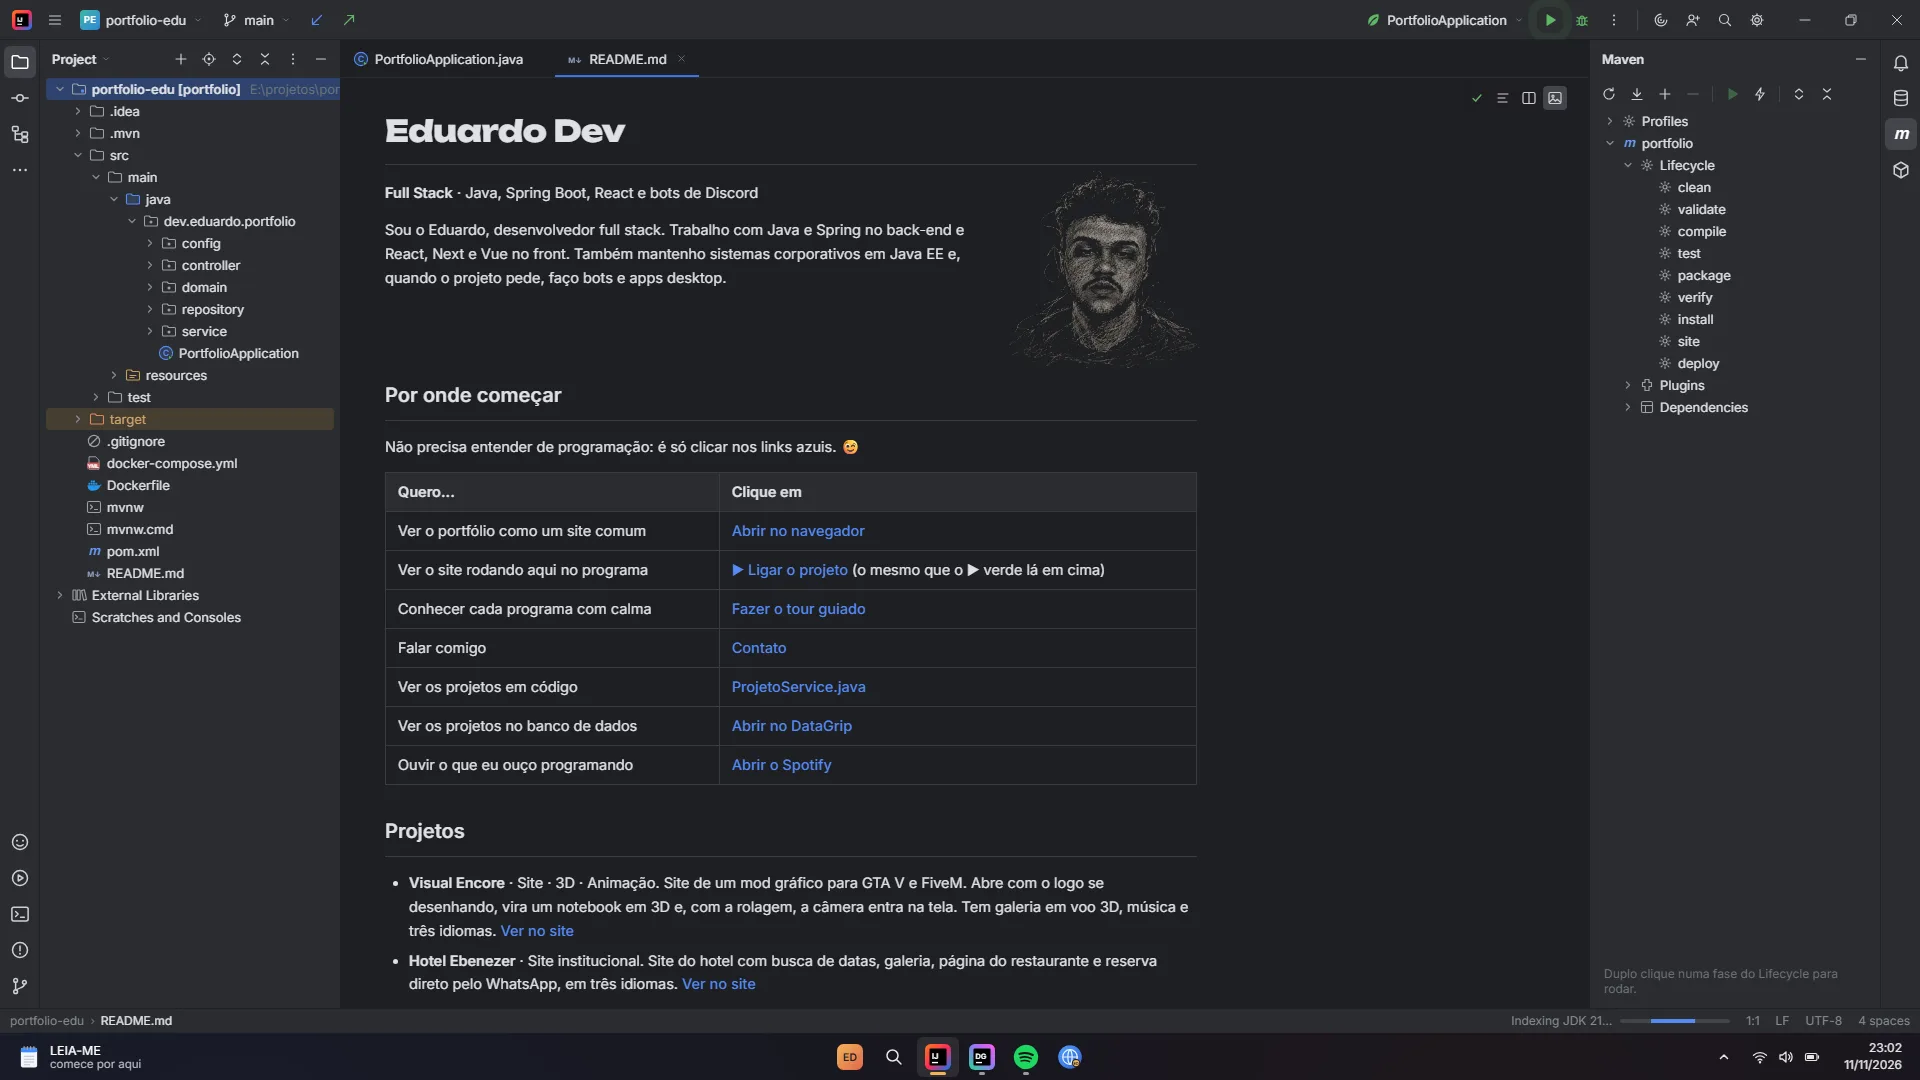
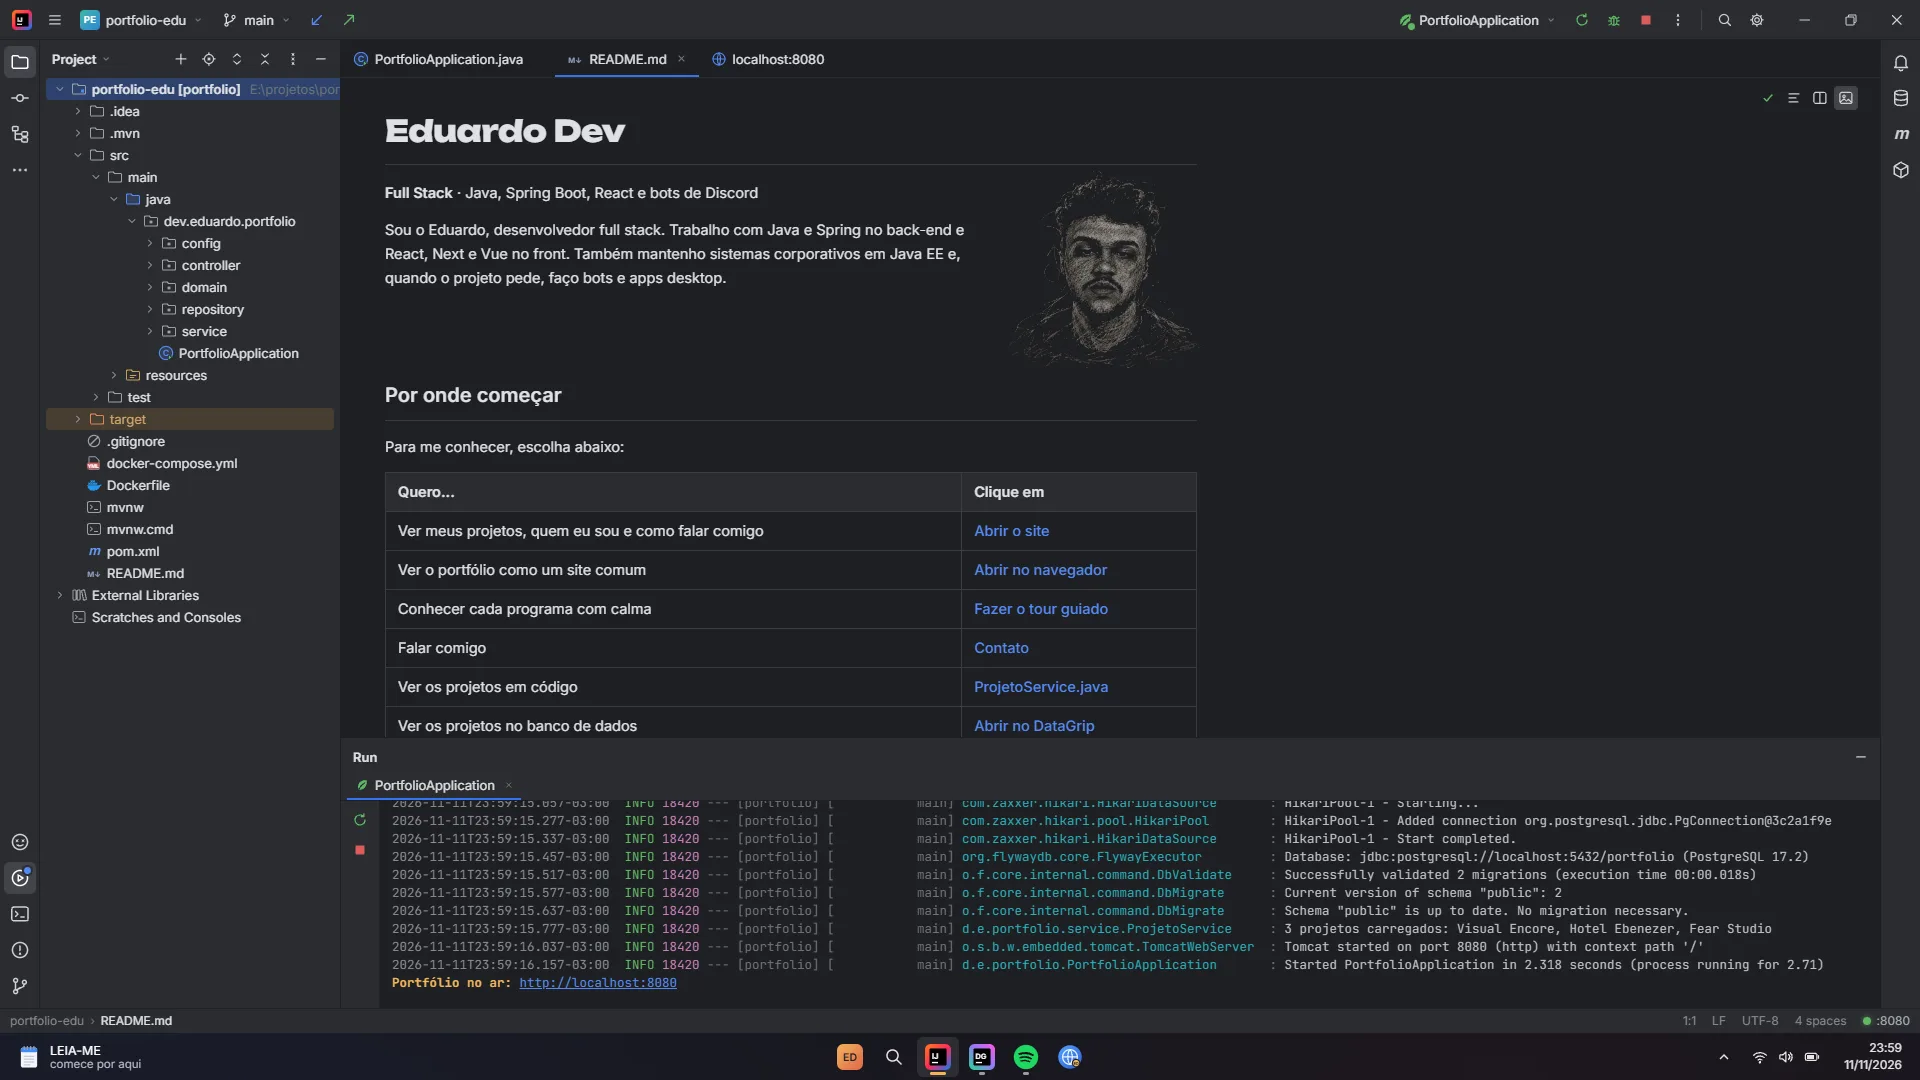
intellij abre com o projeto rodando e o readme na frente

diff --git a/src/apps/intellij/IntelliJ.tsx b/src/apps/intellij/IntelliJ.tsx
@@ -1,6 +1,6 @@
 import { useCallback, useEffect, useMemo, useRef, useState } from "react";
 import { useSistema, type AppId, type ControleJanela } from "../../sistema/contexto";
-import { definirSinal, emitir, lerSinal, ouvir, ouvirSinal } from "../../sistema/eventos";
+import { definirSinal, emitir, lerSinal, ouvir } from "../../sistema/eventos";
 import { IconeIntelliJ } from "../../sistema/icones";
 import { projetos } from "../../dados/projetos";
 import { perfil } from "../../dados/perfil";
@@ -13,6 +13,7 @@ import { Terminal } from "./Terminal";
 import { BuscaTudo, type AbaBusca, type Acao } from "./BuscaTudo";
 import { MenuSuspenso, type ItemMenu } from "./Menus";
 import { fimProcesso, logApp, logMaven, type Sessao } from "./execucao";
+import { classeTema, mudarTemaIde, temasIde, useTemaIde } from "./tema";
 import {
   JanelaBanco,
   JanelaCommit,
@@ -32,7 +33,6 @@ import {
   IcBanco,
   IcBusca,
   IcChevron,
-  IcColab,
   IcCommit,
   IcDepurar,
   IcEndpoints,
@@ -45,7 +45,6 @@ import {
   IcFechar,
   IcFecharJanela,
   IcGit,
-  IcIA,
   IcLocalizar,
   IcMais,
   IcMaisFerramentas,
@@ -89,6 +88,7 @@ const hora = () => new Date().toLocaleTimeString("pt-BR", { hour: "2-digit", min
 export function IntelliJ({ janela }: { janela: ControleJanela }) {
   const sistema = useSistema();
   const celular = sistema.celular;
+  const tema = useTemaIde();
 
   // ---------------- Abas do editor ----------------
   const [abas, setAbas] = useState<string[]>([ID.app, ID.readme]);
@@ -103,7 +103,8 @@ export function IntelliJ({ janela }: { janela: ControleJanela }) {
 
   // ---------------- Janelas de ferramenta ----------------
   const [esquerda, setEsquerda] = useState<Esquerda | null>(celular ? null : "projeto");
-  const [direita, setDireita] = useState<Direita | null>(!celular && innerWidth >= 1500 ? "maven" : null);
+  // Maven começa fechado: o site rodando ganha a largura toda (o "m" na direita abre)
+  const [direita, setDireita] = useState<Direita | null>(null);
   const [inferior, setInferior] = useState<Inferior | null>(null);
   const [tam, setTam] = useState({ esq: 300, dir: 290, inf: 270 });
 
@@ -174,7 +175,15 @@ export function IntelliJ({ janela }: { janela: ControleJanela }) {
     setInferior("run");
   }, []);
 
-  const rodar = useCallback((debug = false) => novaSessao(debug ? "debug" : "app", "PortfolioApplication", logApp(debug)), [novaSessao]);
+  // Rodar "na mão" (▶, menu, atalho, terminal…) traz o site para a frente quando ele subir
+  const querSite = useRef(false);
+  const rodar = useCallback(
+    (debug = false) => {
+      querSite.current = true;
+      novaSessao(debug ? "debug" : "app", "PortfolioApplication", logApp(debug));
+    },
+    [novaSessao]
+  );
   const maven = useCallback((objetivo: string) => novaSessao("maven", `portfolio [${objetivo}]`, logMaven(objetivo)), [novaSessao]);
   const parar = useCallback((id?: number) => {
     setSessoes((l) =>
@@ -207,20 +216,24 @@ export function IntelliJ({ janela }: { janela: ControleJanela }) {
     return () => window.clearTimeout(t);
   }, [sessoes]);
 
-  // O app subiu: abre o site no preview
+  // O app subiu. Se foi pedido (▶, "Abrir o site"…), o site vem para a frente; se subiu
+  // sozinho ao abrir, a aba localhost:8080 fica pronta e o README continua na frente.
   const estavaRodando = useRef(false);
   const [jaRodou, setJaRodou] = useState(false);
   useEffect(() => {
     definirSinal("app-rodando", appRodando);
     if (appRodando && !estavaRodando.current) {
       setJaRodou(true);
-      abrirSite(ancoraPendente.current ?? undefined);
-      if (celular) setInferior(null); // no celular o Run cobriria o site
+      if (querSite.current) {
+        abrirSite(ancoraPendente.current ?? undefined);
+        if (!lerSinal("guia-aberto"))
+          notificar("Projeto ligado! 🎉", "O site abriu aqui no meio. Role para ver projetos, tecnologias e contato.", [
+            { rotulo: "Abrir o site", acao: () => abrirSite() },
+          ]);
+      } else setAbas((l) => (l.includes(SITE) ? l : [...l, SITE]));
+      if (celular) setInferior(null); // no celular o Run cobriria a tela
       ancoraPendente.current = null;
-      if (!lerSinal("guia-aberto"))
-        notificar("Projeto ligado! 🎉", "O site abriu aqui no meio. Role para ver projetos, tecnologias e contato.", [
-          { rotulo: "Abrir o site", acao: () => abrirSite() },
-        ]);
+      querSite.current = false;
     }
     estavaRodando.current = appRodando;
   }, [appRodando, abrirSite, notificar, celular]);
@@ -256,39 +269,22 @@ export function IntelliJ({ janela }: { janela: ControleJanela }) {
   useEffect(() => ouvir("intellij:rodar", () => rodar()), [rodar]);
   useEffect(() => ouvir("intellij:site", (ancora) => verSite(ancora || undefined)), [verSite]);
 
-  // Endereço com #abrir=caminho/do/Arquivo.java: abre o arquivo
+  // Ao abrir, o projeto já sobe sozinho, sem tirar o README da frente: ele é a página
+  // inicial ("para me conhecer, escolha abaixo") e o site fica pronto na aba localhost:8080.
+  // O ▶ continua lá para religar. Com #abrir=Arquivo.java, abre esse arquivo.
+  const ligou = useRef(false);
   useEffect(() => {
+    if (ligou.current) return;
+    ligou.current = true;
     const m = /^#abrir=(.+)$/.exec(decodeURIComponent(location.hash));
     if (m) abrirArquivo(m[1]);
+    novaSessao("app", "PortfolioApplication", logApp(false));
   }, []);
 
-  // Ao abrir: "indexando" e, quando a pessoa já estiver no computador (e sem o guia
-  // na frente), um balão explicando o ▶
-  const avisouRodar = useRef(false);
+  // "Indexando" nos primeiros segundos, como o de verdade
   useEffect(() => {
-    const t1 = window.setTimeout(() => setIndexando(false), 2600);
-    let t2: number | undefined;
-    const tentar = () => {
-      window.clearTimeout(t2);
-      if (avisouRodar.current || !lerSinal("desktop-ativo") || lerSinal("guia-aberto") || lerSinal("app-rodando")) return;
-      t2 = window.setTimeout(() => {
-        if (avisouRodar.current || lerSinal("guia-aberto") || lerSinal("app-rodando")) return;
-        avisouRodar.current = true;
-        notificar("Quer ver o site?", "Clique no ▶ verde aqui em cima: o projeto liga e o site abre aqui dentro.", [
-          { rotulo: "▶ Ligar o projeto", acao: () => rodar() },
-          { rotulo: "Ler o LEIA-ME", acao: () => emitir("sistema:guia") },
-        ]);
-      }, 1400);
-    };
-    tentar();
-    const a = ouvirSinal("desktop-ativo", tentar);
-    const b = ouvirSinal("guia-aberto", tentar);
-    return () => {
-      a();
-      b();
-      window.clearTimeout(t1);
-      window.clearTimeout(t2);
-    };
+    const t = window.setTimeout(() => setIndexando(false), 2600);
+    return () => window.clearTimeout(t);
   }, []);
 
   // O terminal fica vivo depois de aberto, para não perder o histórico
@@ -519,7 +515,7 @@ export function IntelliJ({ janela }: { janela: ControleJanela }) {
       { rotulo: "Settings…", atalho: "Ctrl+Alt+S", desabilitado: true },
       { rotulo: "Plugins…", desabilitado: true },
       { separador: true },
-      { rotulo: "Theme", sub: [{ rotulo: "Dark", marcado: true }, { rotulo: "Light", desabilitado: true }] },
+      { rotulo: "Theme", sub: temasIde.map((t) => ({ rotulo: t.nome, marcado: tema === t.id, acao: () => mudarTemaIde(t.id) })) },
       { rotulo: "Keymap", sub: [{ rotulo: "Windows", marcado: true }] },
       { separador: true },
       { rotulo: "About", acao: () => setSobre(true) },
@@ -563,7 +559,7 @@ export function IntelliJ({ janela }: { janela: ControleJanela }) {
   const tituloInf: Record<Inferior, string> = { run: "Run", terminal: "Terminal", problemas: "Problems", git: "Git", servicos: "Services" };
 
   return (
-    <div className={`ij${celular ? " celular" : ""}${focada ? " focada" : ""}`} ref={raiz} data-guia="intellij">
+    <div className={`ij${classeTema(tema)}${celular ? " celular" : ""}${focada ? " focada" : ""}`} ref={raiz} data-guia="intellij">
       {/* ================= Barra principal ================= */}
       <header className="ij-topo" data-arrastar>
         <span className="ij-logo" aria-hidden="true">
@@ -632,17 +628,7 @@ export function IntelliJ({ janela }: { janela: ControleJanela }) {
             <IcMais />
           </button>
         )}
-        {!celular && (
-          <>
-            <span className="ij-sep" />
-            <button className="ij-tb" title="AI Assistant" aria-label="AI Assistant" onClick={() => notificar("AI Assistant", "Pergunte direto ao Eduardo: o contato está no README. 😉", [{ rotulo: "Abrir README", acao: () => abrirArquivo(ID.readme) }])}>
-              <IcIA />
-            </button>
-            <button className="ij-tb" title="Code With Me" aria-label="Code With Me" onClick={() => notificar("Code With Me", "Bora codar junto? Me chama no contato.", [{ rotulo: "Ver contato", acao: () => verSite("contato") }])}>
-              <IcColab />
-            </button>
-          </>
-        )}
+        {!celular && <span className="ij-sep" />}
         <button className="ij-tb" onClick={() => setBusca("tudo")} title="Search Everywhere (Double Shift)" aria-label="Search Everywhere">
           <IcBusca />
         </button>

diff --git a/src/sistema/Desktop.tsx b/src/sistema/Desktop.tsx
@@ -141,6 +141,14 @@ export function Desktop({ ativo, onDesligar }: Props) {
         texto: "esses são os programas que eu uso todo dia. vou te mostrar um por um.",
       },
       {
+        alvo: '[data-guia="site"]',
+        antes: () => {
+          abrir("intellij");
+          emitir("intellij:site");
+        },
+        texto: "esse é o meu portfólio, já rodando dentro do intellij. rola a página pra ver os projetos e o contato.",
+      },
+      {
         alvo: '[data-guia="arvore"]',
         antes: () => abrir("intellij"),
         texto: "intellij: é onde eu programo. aqui do lado ficam os arquivos do portfólio, que é um projeto java de verdade.",
@@ -148,17 +156,8 @@ export function Desktop({ ativo, onDesligar }: Props) {
       {
         alvo: '[data-guia="rodar"]',
         antes: () => abrir("intellij"),
-        texto: "pra ver o site, liga o projeto: clica nesse ▶ verde.",
-        acao: { rotulo: "liga pra mim", fazer: () => emitir("intellij:rodar") },
-        esperar: "app-rodando",
-      },
-      {
-        alvo: '[data-guia="site"]',
-        antes: () => {
-          abrir("intellij");
-          emitir("intellij:site");
-        },
-        texto: "pronto, esse é o site rodando. rola a página pra ver os projetos e o contato.",
+        texto: "esse ▶ verde liga o projeto. já deixei ligado pra você, mas dá pra ver ele subindo de novo.",
+        acao: { rotulo: "religar", fazer: () => emitir("intellij:rodar") },
       },
       {
         alvo: '.bt-app[aria-label="DataGrip"]',
@@ -167,9 +166,9 @@ export function Desktop({ ativo, onDesligar }: Props) {
       },
       {
         alvo: '.bt-app[aria-label="Spotify"]',
-        texto: "spotify: o que eu ouço programando. dá o play, a música é gerada na hora.",
+        texto: "spotify: o que eu ouço programando. tem tarcísio do acordeon e um lo-fi que é gerado na hora.",
         acao: {
-          rotulo: "tocar",
+          rotulo: "tocar o lo-fi",
           fazer: () => {
             abrir("spotify");
             emitir("spotify:tocar");

diff --git a/src/apps/intellij/Markdown.tsx b/src/apps/intellij/Markdown.tsx
@@ -1,8 +1,8 @@
 import { Fragment, type ReactNode } from "react";
 
 // Preview de Markdown (o suficiente para o README): títulos, parágrafos, listas,
-// tabelas, imagens, citação, código e links. Links com "acao:", "abrir:", "app:" e
-// "site:" chamam onLink em vez de navegar.
+// tabelas, imagens, citação, código e links. Links com "acao:", "abrir:", "app:",
+// "site:" (ou só "site") chamam onLink em vez de navegar.
 type Props = { texto: string; onLink: (destino: string) => void };
 
 function inline(texto: string, onLink: Props["onLink"], chave = ""): ReactNode[] {
@@ -17,7 +17,7 @@ function inline(texto: string, onLink: Props["onLink"], chave = ""): ReactNode[]
     const link = /^\[([^\]]+)\]\(([^)]+)\)$/.exec(p);
     if (link) {
       const [, rotulo, destino] = link;
-      const interno = /^(acao|abrir|app|site):/.test(destino);
+      const interno = /^(acao|abrir|app|site)(:|$)/.test(destino);
       return interno ? (
         <a
           key={k}

diff --git a/src/apps/intellij/projeto.ts b/src/apps/intellij/projeto.ts
@@ -666,12 +666,12 @@ ${textoSobre}
 
 ## Por onde começar
 
-Não precisa entender de programação: é só clicar nos links azuis. 😉
+Para me conhecer, escolha abaixo:
 
 | Quero... | Clique em |
 | --- | --- |
+| Ver meus projetos, quem eu sou e como falar comigo | [Abrir o site](site) |
 | Ver o portfólio como um site comum | [Abrir no navegador](app:navegador) |
-| Ver o site rodando aqui no programa | [▶ Ligar o projeto](acao:rodar) (o mesmo que o ▶ verde lá em cima) |
 | Conhecer cada programa com calma | [Fazer o tour guiado](acao:guia) |
 | Falar comigo | [Contato](site:contato) |
 | Ver os projetos em código | [ProjetoService.java](abrir:${ID.servico}) |

diff --git a/src/apps/bloco/Bloco.tsx b/src/apps/bloco/Bloco.tsx
@@ -73,8 +73,8 @@ export function Bloco({ janela }: { janela: ControleJanela }) {
           (uns 2 minutinhos)
         </p>
         <p>
-          é de TI? então fica à vontade. o portfólio é um projeto spring boot de verdade aberto no intellij: aperta o ▶ verde lá em cima que
-          ele sobe.
+          é de TI? então fica à vontade. o portfólio é um projeto spring boot de verdade aberto no intellij, e já deixei ele rodando: o site
+          tá na aba localhost:8080. dá pra fuçar nos arquivos, no banco (datagrip) e no terminal.
         </p>
         <p>
           pra falar comigo:
